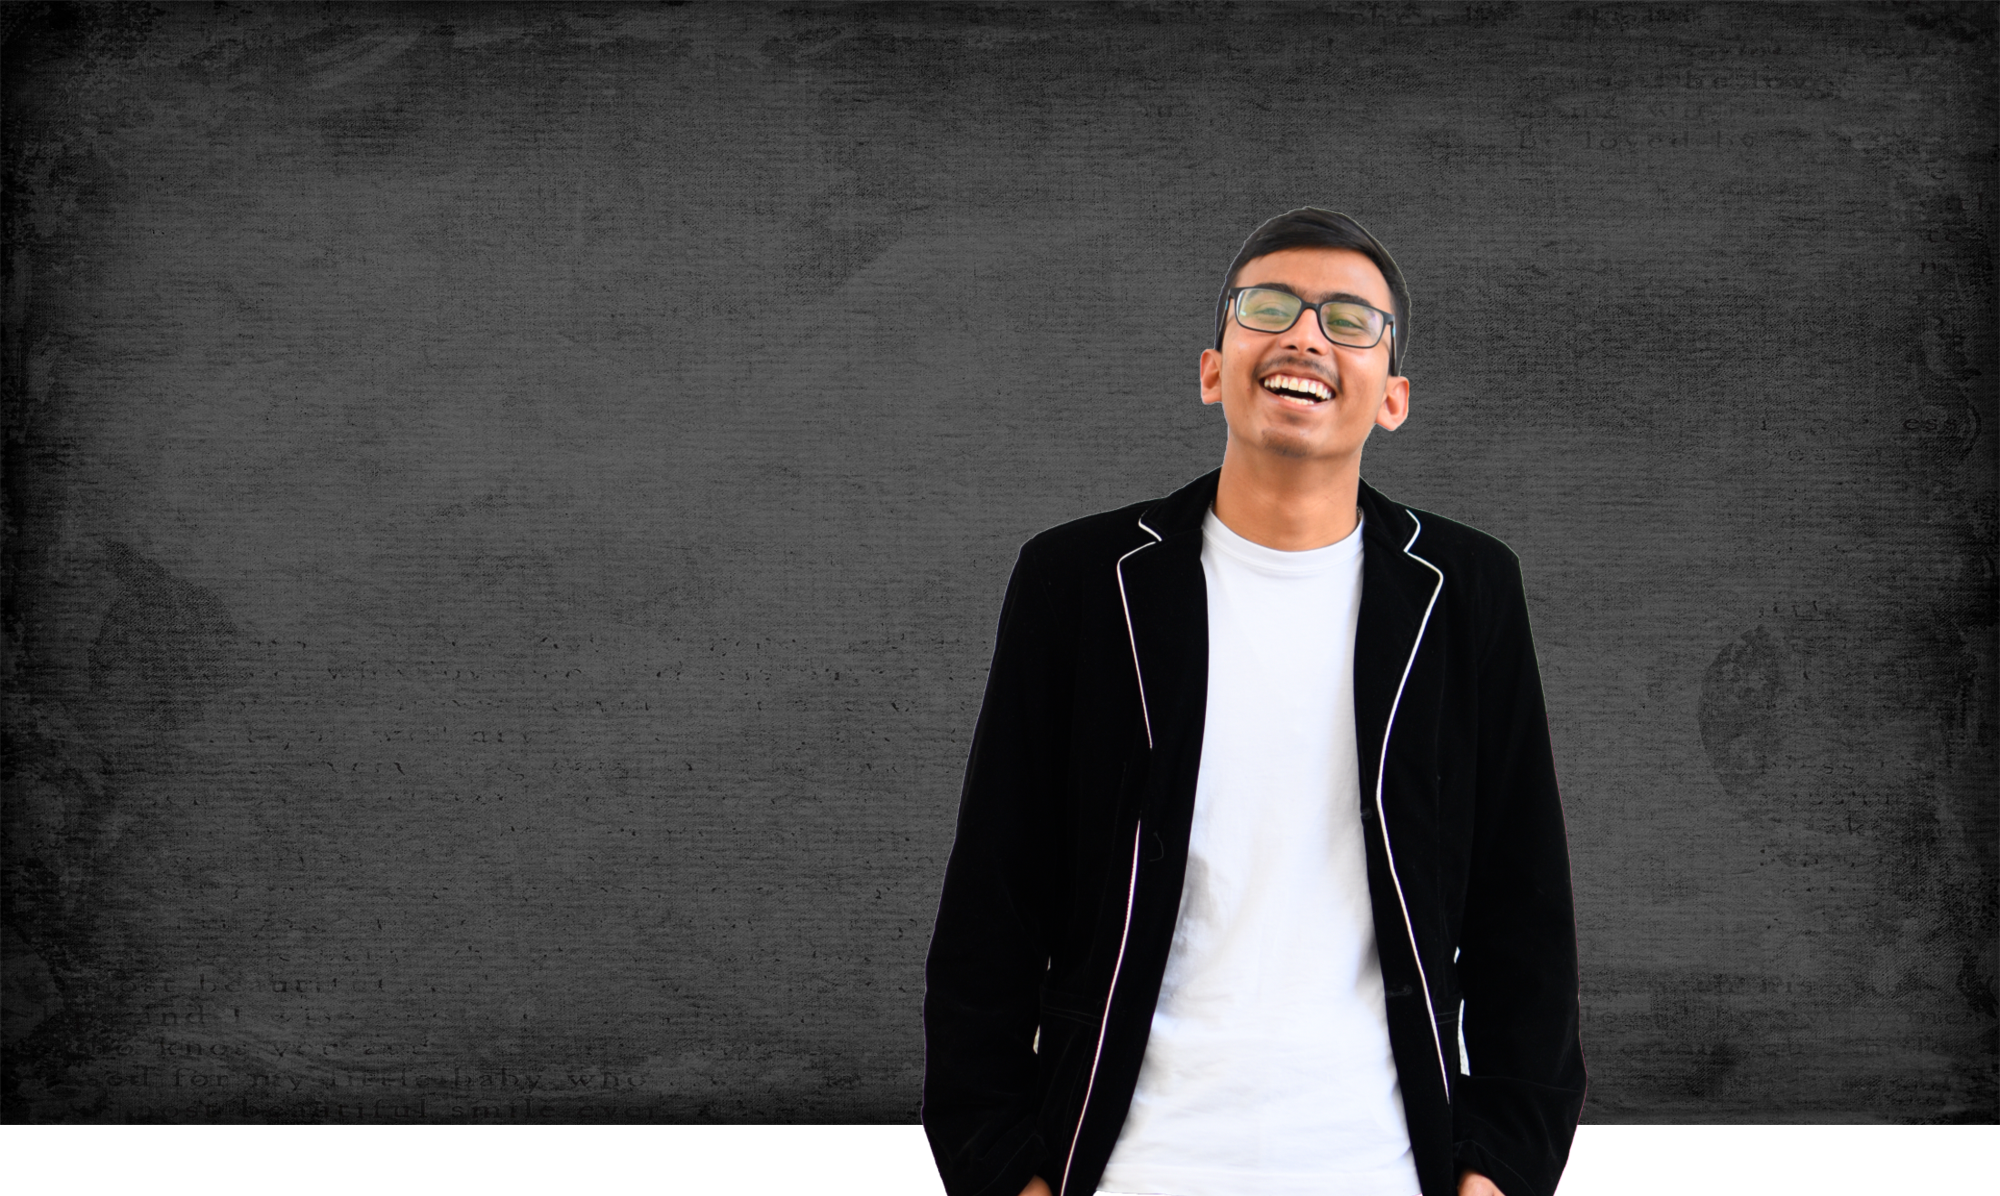
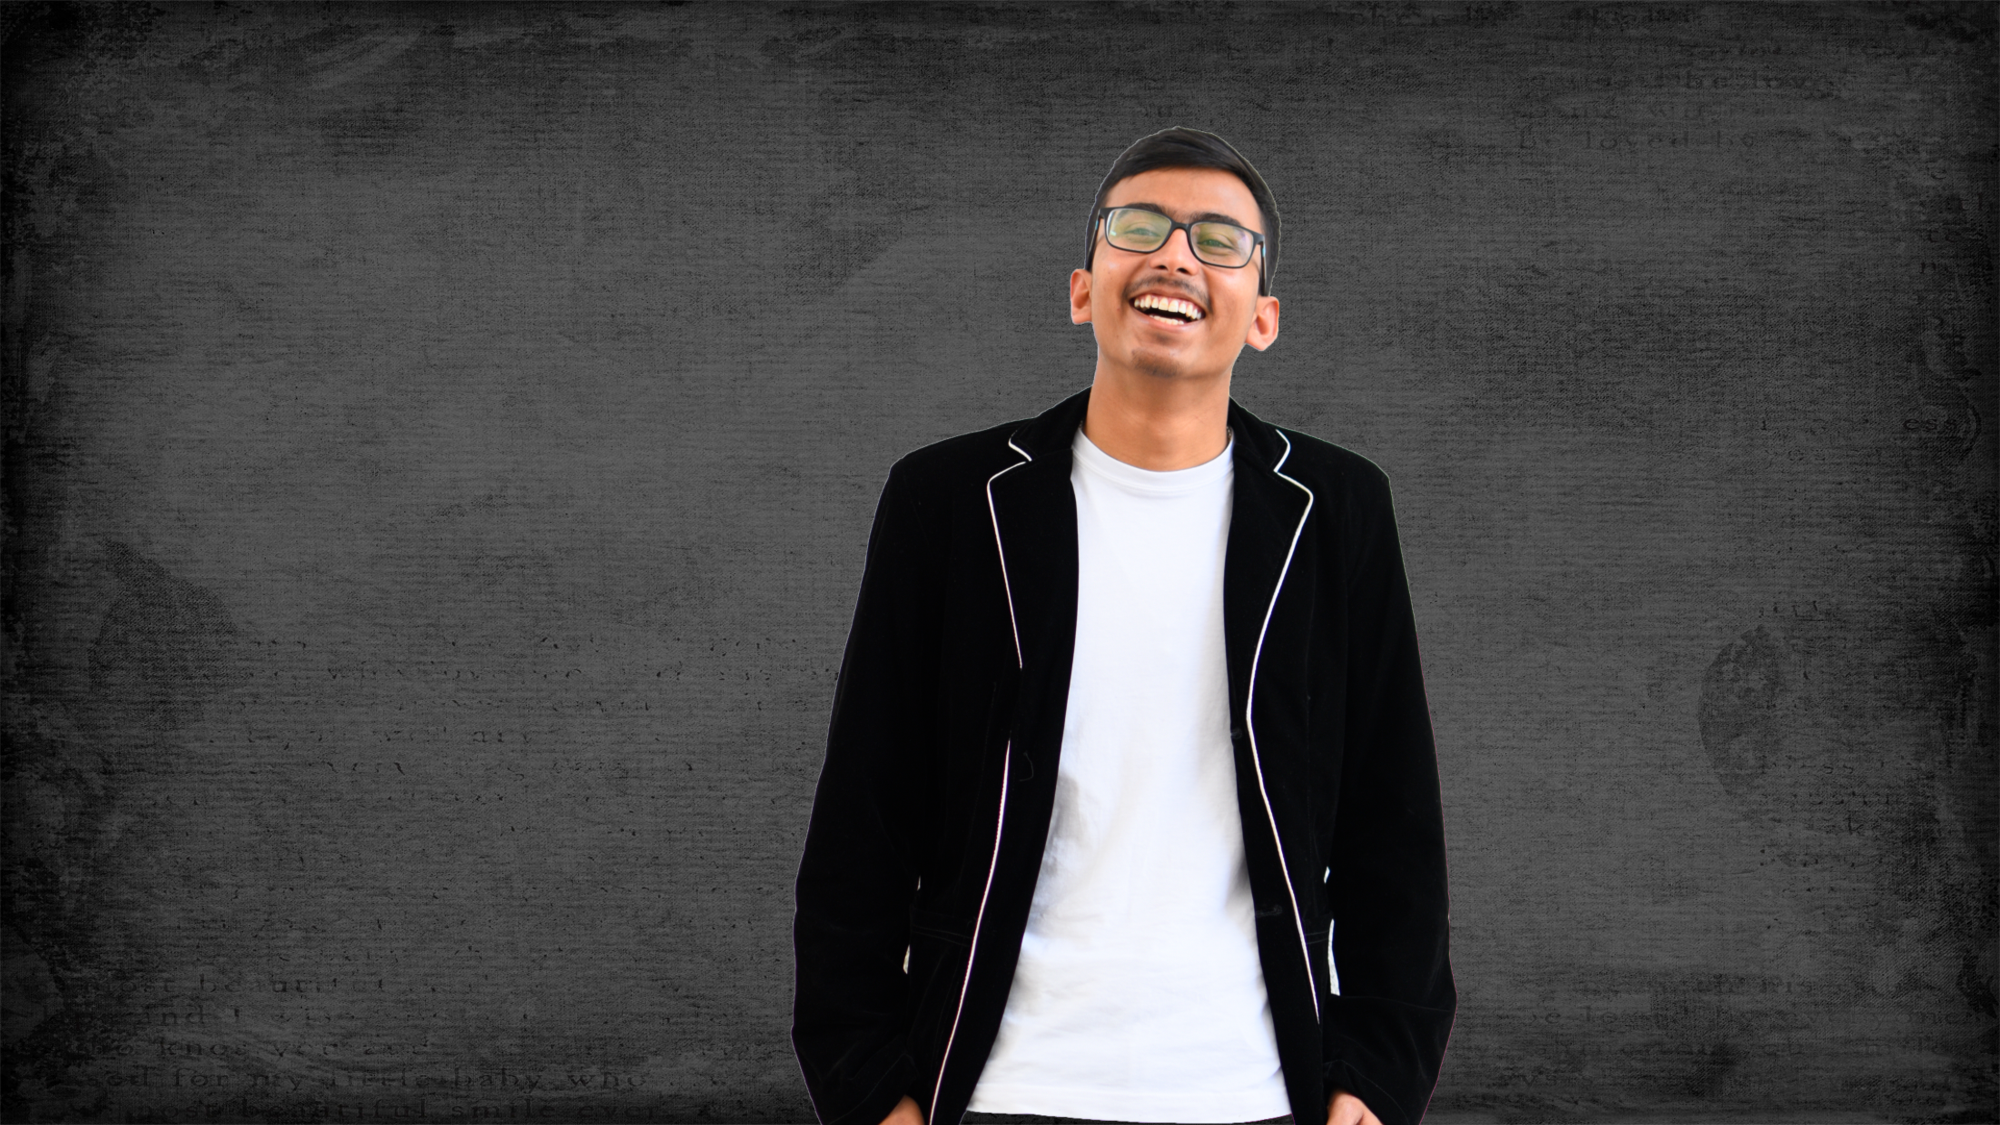
3rd change
d

diff --git a/styles.css b/styles.css
@@ -796,12 +796,6 @@ font-size: 15px;
             flex: 0 0 100%;
             max-width: 100%;
         }
-        .home{
-            max-height: 100vh;
-            background-image: url('small-background.png');
-            background-size: cover;
-            background-color: #ffffff;
-        }
     }
 
     @media(max-width:500px){
